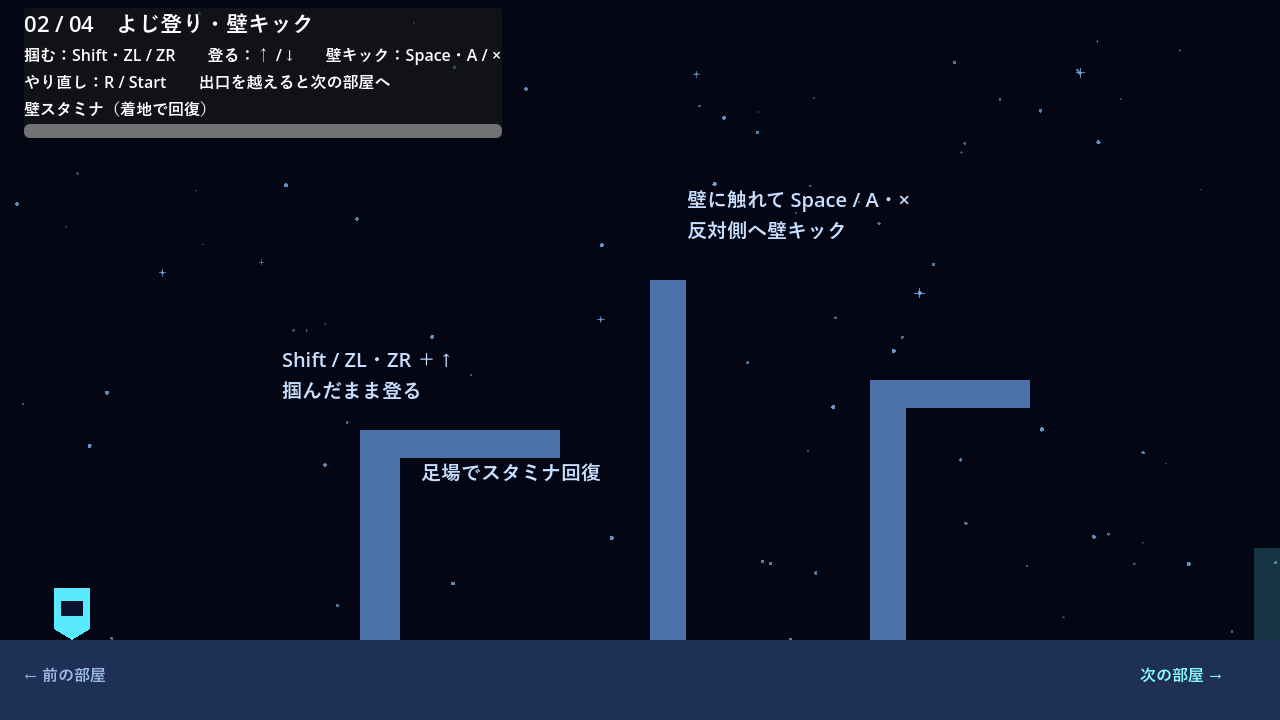
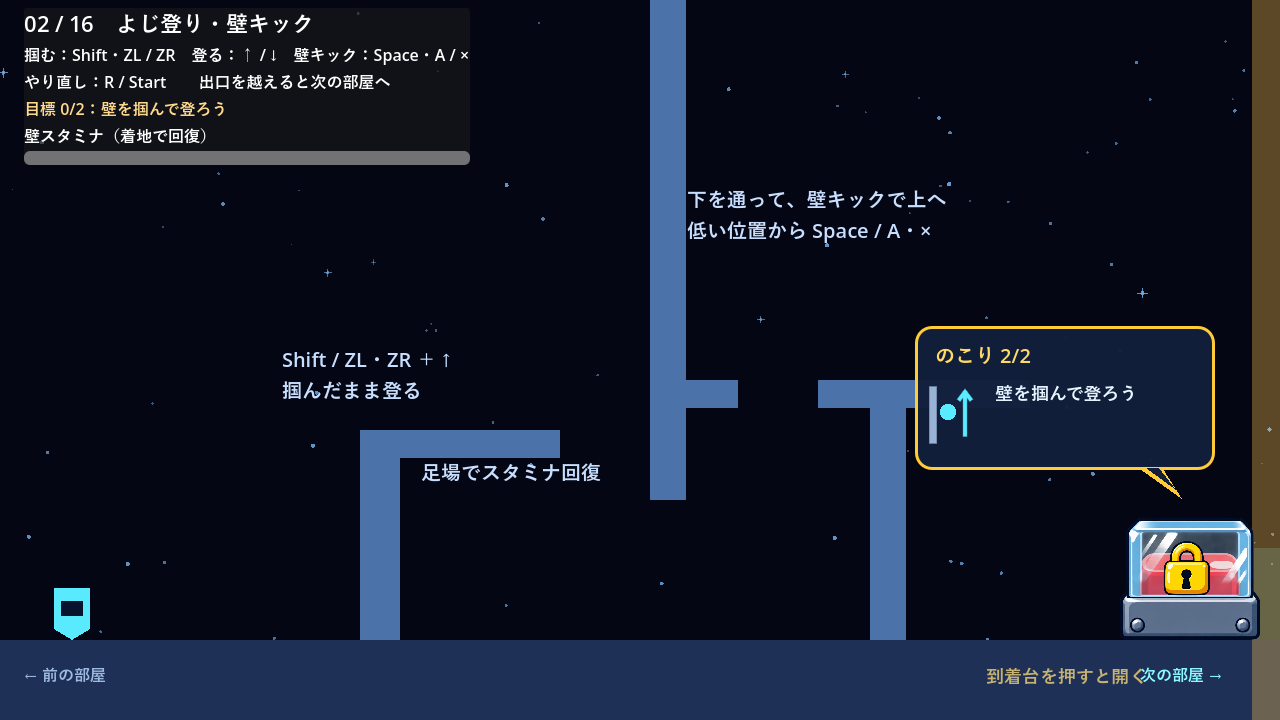
壁キックチュートリアルの難易度向上

diff --git a/README.md b/README.md
@@ -16,7 +16,7 @@
 | 部屋 | 課題と配置 | 新しく使える操作 |
 | --- | --- | --- |
 | 1：移動・ジャンプ | 平地、64pxと96pxの段差、下に戻れる床を置いた短い穴 | 移動・ジャンプ |
-| 2：よじ登り・壁キック | 安全な床のある壁、スタミナを回復できる休憩足場、向かい合う壁 | 壁Grab・壁登り・壁スライド・壁キック |
+| 2：よじ登り・壁キック | 左の壁を登って休憩足場へ。中央の壁の下を通り、向かい合う壁の張り出しを壁キックで越えて右へ進む | 壁Grab・壁登り・壁スライド・壁キック |
 | 3：ダッシュ | 練習床、360pxの穴、140px高い足場、任意で取れるDash Crystal | 8方向Dash |
 | 4：重力切り替え | 安全なUpゲート、天井を歩いて越える障害物、反転中に跳び越す段差、Downゲート、床のゴール | ゲートによる重力反転 |
 
